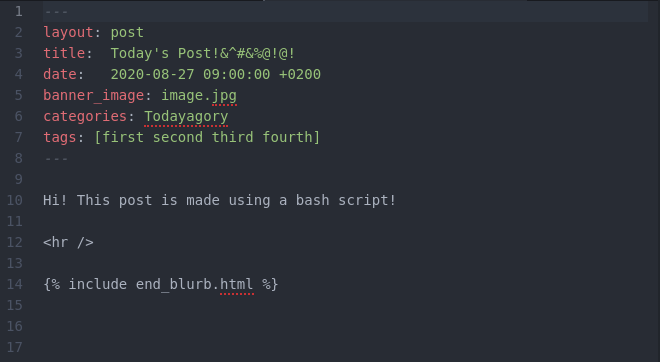
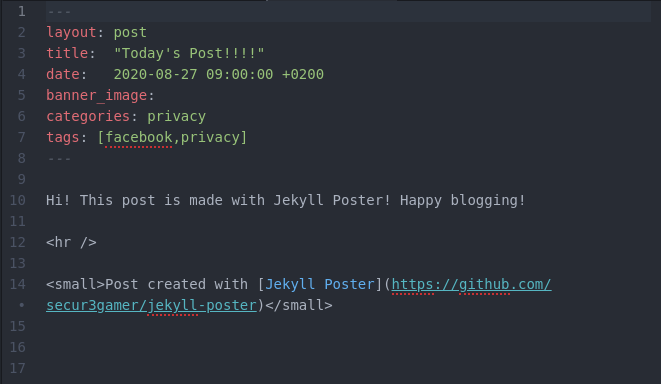
modified:   README.md 	modified:   jekyll_poster.sh 	modified:   jekyll_poster_in_action.gif 	modified:   jekyll_poster_screenshot.png

diff --git a/README.md b/README.md
@@ -9,13 +9,19 @@
 - Formatting options for the post body
   - Currently the script only allows for basic text input, future versions will be able to use any markdown formatting
 - Choose between post for today or a future post
-- Jekyll build on script complete
+- ~~Jekyll build on script complete~~ DONE
+- Timezone variable
 
 **How to use**
-- Change the path to your Jekyll blog "_posts" folder
-- Run and fill out the information!
+- Change $jekyllPath and $jekyllPostPath to match your Jekyll blog
+- Change time and timezone offset (default at the moment is +0200) as required
+- Run the script (i.e. bash jekyll_poster.sh) and fill out the information!
 - Make final edits to the body
-- Post it!
+- Hit Enter
+- ????
+- PROFIT!!!
+
+If you use this all I ask is please leave in the credit at the end! Thanks, and happy blogging!
 
 ---
 **Jekyll Poster in action**
@@ -24,8 +30,5 @@
 
 ---
 **Result**
-
-*Note*: The GIF corresponds to a different file than the one below. The image below is to show corrected filename even if non URL-friendly characters are introduced.
-- The filename for the below image is "2020-08-27-todays-post.md"
 
 ![Jekyll Poster Screenshot](jekyll_poster_screenshot.png?raw=true)
